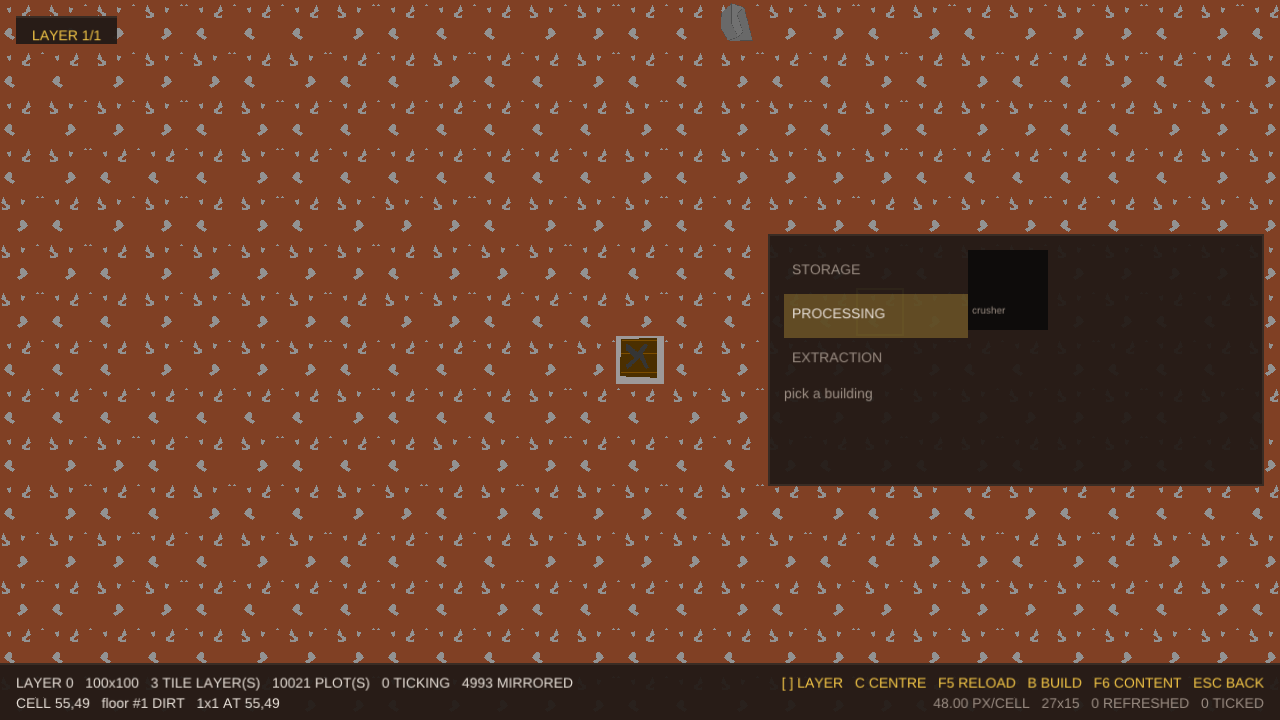
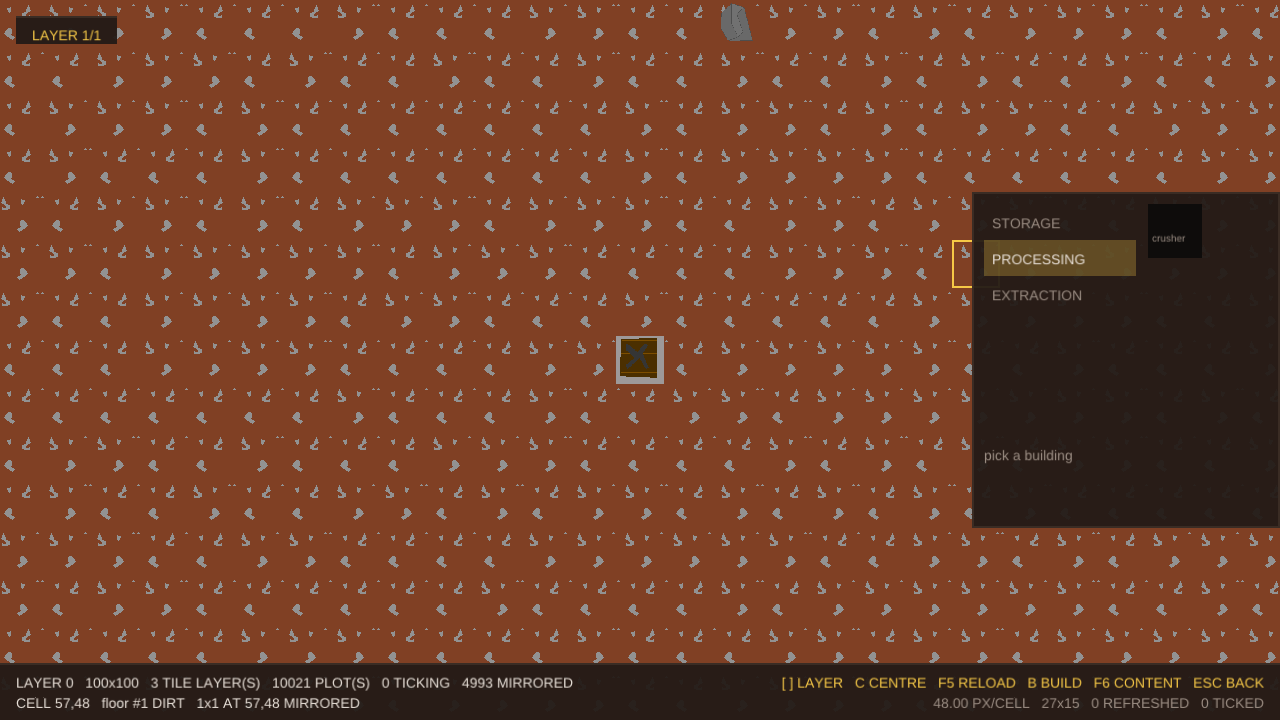
the sidebar hugs the right edge, keeps one fixed size, draws smaller pictures and pages what does not fit

Changed region(s): [[0.5938, 0.2444, 1.0, 0.7333], [0.2188, 0.9472, 0.2812, 1.0]]

diff --git a/tile2d/games/mine/src/build_sidebar.cpp b/tile2d/games/mine/src/build_sidebar.cpp
@@ -34,12 +34,14 @@ void BuildSidebar::rebuild(const ContentRegistry& registry, const ContentDefinit
     if (std::find(categories_.begin(), categories_.end(), category_) == categories_.end()) {
         category_ = categories_.empty() ? types::BuildingCategory::None : categories_.front();
     }
+    page_ = 0;
     select_category(category_);
 }
 
 void BuildSidebar::select_category(types::BuildingCategory category) {
     category_ = category;
     selected_ = kNone;
+    page_ = 0;
     shown_.clear();
     for (const BuildEntry& building : all_) {
         if (building.category == category) shown_.push_back(building);
@@ -56,42 +58,47 @@ BuildSidebar::Layout BuildSidebar::layout(t2d::Vec2 screen, t2d::f32 unit) const
     Layout out;
     if (!open_) return out;
     out.visible = true;
-    // A column at the **right, vertically centred** (the designer's words): wide enough for a category
-    // name beside a grid of pictures, and never more than half the screen - a sidebar that covers the map
-    // is not a sidebar.
-    const t2d::f32 padding = 8.0f * unit;
-    const t2d::f32 category_width = 92.0f * unit;
-    const t2d::f32 cell = 44.0f * unit;
-    const t2d::f32 line = 22.0f * unit;
-    const t2d::f32 grid_width = cell * 3.0f + padding;
-    const t2d::f32 width = std::min(category_width + grid_width + padding * 2.0f, screen.x * 0.5f);
-    const t2d::f32 rows = static_cast<t2d::f32>(std::max<usize>(1, categories_.size()));
-    const t2d::f32 grid_rows = static_cast<t2d::f32>(std::max<usize>(1, (shown_.size() + 2) / 3));
-    const t2d::f32 body = std::max(rows * line, grid_rows * cell);
-    const t2d::f32 height = body + line * 2.0f + padding * 2.0f;
-    const t2d::f32 top = std::max(padding, (screen.y - height) * 0.5f);
-    out.panel = t2d::Aabb2{t2d::Vec2{screen.x - width - padding, top},
-                           t2d::Vec2{screen.x - padding, top + height}};
+    // A **fixed** vertical rectangle, **flush against the right edge** of the screen and vertically centred:
+    // its size does not depend on how much is in it (docs/GAME_DESIGN.md section 1.36). What does not fit
+    // is on another page.
+    const t2d::f32 padding = 6.0f * unit;
+    const t2d::f32 category_width = 76.0f * unit;
+    const t2d::f32 cell = 30.0f * unit;
+    const t2d::f32 line = 18.0f * unit;
+    const t2d::f32 width = category_width + static_cast<t2d::f32>(kColumns) * cell + padding * 3.0f;
+    const t2d::f32 height = padding * 2.0f + line * 2.0f + static_cast<t2d::f32>(kRows) * cell;
+    const t2d::f32 top = std::max(0.0f, (screen.y - height) * 0.5f);
+    out.panel = t2d::Aabb2{t2d::Vec2{screen.x - width, top}, t2d::Vec2{screen.x, top + height}};
+    const t2d::f32 body_top = out.panel.min.y + padding;
     for (usize index = 0; index < categories_.size(); ++index) {
-        const t2d::f32 y = out.panel.min.y + padding + static_cast<t2d::f32>(index) * line;
+        const t2d::f32 y = body_top + static_cast<t2d::f32>(index) * line;
         out.categories.push_back(t2d::Aabb2{t2d::Vec2{out.panel.min.x + padding, y},
                                             t2d::Vec2{out.panel.min.x + padding + category_width, y + line}});
     }
-    const t2d::f32 grid_x = out.panel.min.x + padding + category_width;
-    for (usize index = 0; index < shown_.size(); ++index) {
-        const t2d::f32 x = grid_x + static_cast<t2d::f32>(index % 3) * cell;
-        const t2d::f32 y = out.panel.min.y + padding + static_cast<t2d::f32>(index / 3) * cell;
+    const t2d::f32 grid_x = out.panel.min.x + padding * 2.0f + category_width;
+    const usize first = page_ * kPageSize;
+    for (usize index = first; index < shown_.size() && index - first < kPageSize; ++index) {
+        const usize slot = index - first;
+        const t2d::f32 x = grid_x + static_cast<t2d::f32>(slot % kColumns) * cell;
+        const t2d::f32 y = body_top + static_cast<t2d::f32>(slot / kColumns) * cell;
         out.entries.push_back(
-            t2d::Aabb2{t2d::Vec2{x, y}, t2d::Vec2{x + cell - 4.0f * unit, y + cell - 4.0f * unit}});
+            t2d::Aabb2{t2d::Vec2{x, y}, t2d::Vec2{x + cell - 3.0f * unit, y + cell - 3.0f * unit}});
     }
     out.details = t2d::Aabb2{t2d::Vec2{out.panel.min.x + padding, out.panel.max.y - padding - line * 2.0f},
                              t2d::Vec2{out.panel.max.x - padding, out.panel.max.y - padding}};
+    out.page_label = t2d::Aabb2{t2d::Vec2{out.panel.max.x - 44.0f * unit, out.panel.max.y - padding - line},
+                                t2d::Vec2{out.panel.max.x - padding, out.panel.max.y - padding}};
     return out;
 }
 
+void BuildSidebar::turn_page(i32 by) {
+    const t2d::i64 wanted = static_cast<t2d::i64>(page_) + by;
+    const t2d::i64 last = static_cast<t2d::i64>(page_count()) - 1;
+    page_ = static_cast<usize>(std::clamp<t2d::i64>(wanted, 0, last < 0 ? 0 : last));
+}
 usize BuildSidebar::entry_at(const Layout& layout, t2d::Vec2 point) const {
-    for (usize index = 0; index < layout.entries.size(); ++index) {
-        if (layout.entries[index].contains(point)) return index;
+    for (usize slot = 0; slot < layout.entries.size(); ++slot) {
+        if (layout.entries[slot].contains(point)) return page_ * kPageSize + slot;
     }
     return kNone;
 }

diff --git a/tile2d/games/mine/include/mine/build_sidebar.h b/tile2d/games/mine/include/mine/build_sidebar.h
@@ -48,7 +48,20 @@ public:
     void select_category(types::BuildingCategory category);
 
     /// The buildings of the selected category, in registration order.
+    /// How many buildings one page holds, and how the pages are turned (docs/GAME_DESIGN.md section 1.36).
+    /// The sidebar has a **fixed size**, so a category with more buildings than fit is paged rather than
+    /// grown: the grid is kColumns wide and kRows tall, and the wheel over the sidebar turns the page.
+    static constexpr usize kColumns = 2;
+    static constexpr usize kRows = 4;
+    static constexpr usize kPageSize = kColumns * kRows;
+
     [[nodiscard]] const std::vector<BuildEntry>& entries() const { return shown_; }
+    [[nodiscard]] usize page() const { return page_; }
+    [[nodiscard]] usize page_count() const {
+        return shown_.empty() ? 1 : (shown_.size() + kPageSize - 1) / kPageSize;
+    }
+    /// Turns \p by pages (negative goes back), clamped to the pages there are.
+    void turn_page(i32 by);
     [[nodiscard]] const BuildEntry* selected() const;
     void select(usize index);
     void clear_selection() { selected_ = kNone; }
@@ -60,6 +73,7 @@ public:
         std::vector<t2d::Aabb2> categories{};
         std::vector<t2d::Aabb2> entries{};
         t2d::Aabb2 details{};
+        t2d::Aabb2 page_label{};   ///< where "1 / 2" goes, in the details corner
     };
     [[nodiscard]] Layout layout(t2d::Vec2 screen, t2d::f32 unit) const;
 
@@ -75,6 +89,7 @@ private:
     std::vector<types::BuildingCategory> categories_;        ///< the ones with something in them
     std::vector<BuildEntry> shown_;                          ///< the selected category's buildings
     types::BuildingCategory category_ = types::BuildingCategory::None;
+    usize page_ = 0;
     usize selected_ = kNone;
     bool open_ = false;
 };

diff --git a/tile2d/games/mine/src/app.cpp b/tile2d/games/mine/src/app.cpp
@@ -1453,6 +1453,16 @@ void MineApp::handle_world_input(f32 delta_seconds) {
     if (input.mouse_down(ore::MouseButton::Middle)) {
         world_camera_.pan(t2d::Vec2{input.mouse_delta_x(), input.mouse_delta_y()});
     }
+    // The wheel over the sidebar turns its page; anywhere else it zooms the map (docs/GAME_DESIGN.md 1.36).
+    if (input.scroll_y() != 0.0f && sidebar_.open()) {
+        const BuildSidebar::Layout layout =
+            sidebar_.layout(t2d::Vec2{static_cast<f32>(renderer().width()), static_cast<f32>(renderer().height())},
+                            unit_);
+        if (layout.visible && layout.panel.contains(t2d::Vec2{input.mouse_x(), input.mouse_y()})) {
+            sidebar_.turn_page(input.scroll_y() > 0.0f ? -1 : 1);
+            return;
+        }
+    }
     if (input.scroll_y() != 0.0f) {
         world_camera_.zoom_at(mouse, input.scroll_y() > 0.0f ? 1.15f : 1.0f / 1.15f);
     }
@@ -2324,6 +2334,10 @@ void MineApp::draw_build_sidebar() {
         materials += std::format(" x{}", stack.count);
     }
     if (picked->seconds > 0.0f) materials += std::format("   {}s", picked->seconds);
+    if (sidebar_.page_count() > 1) {
+        draw_fitted(layout.page_label.min.x, layout.page_label.min.y, body_px_, kPalette.text_dim,
+                    std::format("{} / {}", sidebar_.page() + 1, sidebar_.page_count()), layout.page_label.width());
+    }
     draw_fitted(layout.details.min.x, layout.details.min.y + line_for(body_px_), body_px_, kPalette.text_dim,
                 materials, layout.details.width());
 }

diff --git a/tile2d/docs/GAME_DESIGN.md b/tile2d/docs/GAME_DESIGN.md
@@ -160,7 +160,9 @@
     **名字**与**建造材料**（`材料 stone x10 chunk x2`，有建造时间就再写秒数）。它**只列有 `building::` 的内容**：
     没有建筑子对象的地板、矿不会出现在建造栏里。栏里的点击是栏的，不会同时落到地图上（与 §1.31 "一个指针一次只
     显示一处"同一条规矩）。**这一栏是模型加绘制**：`mine/build_sidebar.h` 管"有哪些类别、选中了谁、各部分在屏幕的
-    哪里"，世界视图只负责画和把点击交给它。
+    哪里"，世界视图只负责画和把点击交给它。设计者随后定了形状：**紧贴屏幕右侧**、**竖长方形**、**大小固定**——
+    所以栏宽 = 类别列 + 2 列小格子，栏高 = 4 行小格子 + 底部两行文字，不随内容伸缩；**贴图小一些**（每格 30 单位，
+    原来 44）；一页放不下就**翻页**（2 列 × 4 行 = 8 个一页，右下角写 `1 / 2`，指针在栏上滚滚轮翻页，换类别回到第 1 页）。
 
 以上三十六条是当前唯一的内容性输入。除此之外的一切内容均由设计者后续提供（见 §7）。
 
@@ -1381,6 +1383,8 @@ place_block:: / placement1:: / x:111... subobject:: / container:: / items:["aaa"
   31/31、no-renderer 11/11、Ore 13/13）。
 
 ### M2 交付状态（十八）：建造侧边栏（已落地）
+
+设计者随后定了形状与翻页：紧贴右侧、竖长方形、大小固定、贴图更小、可翻页——都已落地。
 
 设计者的要求（§1.36 的原话）："在游戏画面右边中间加入一个可以打开/收起的侧边栏，里面左边显示建筑类别，右边按照选择
 的建筑类别显示建筑贴图，可以选择，选择后会有方框高亮提示，以及在下方显示建筑名称和建造材料"；随后一句"请一次完成"
